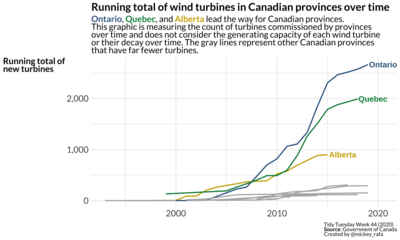
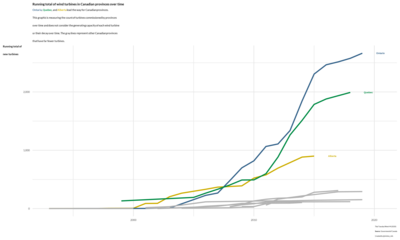
making draft until sizing is fixed

diff --git a/docs/visualizations/2020-10-29-tt-wk44-2020/index.html b/docs/visualizations/2020-10-29-tt-wk44-2020/index.html
@@ -1,0 +1,2 @@
+<!DOCTYPE html>
+<html xmlns="http://www.w3.org/1999/xhtml" lang="en" xml:lang="en"></html>
